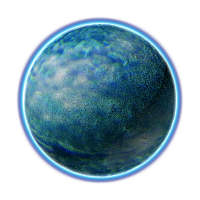
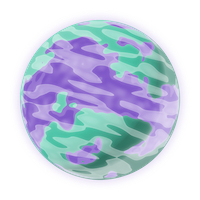
nicer planets

diff --git a/src/backdrop.rs b/src/backdrop.rs
@@ -89,15 +89,18 @@ fn setup_initial_backdrop(
 
     let planet = Obstacle::planet();
 
-    let next_planet_type = rand::thread_rng().gen_range(0..100);
-    let img_handle = if next_planet_type < 45 {
-        my_assets.planet01.clone()
-    } else if next_planet_type < 70 {
-        my_assets.planet02.clone()
-    } else if next_planet_type < 95 {
-        my_assets.planet03.clone()
-    } else {
-        my_assets.planet04.clone()
+    let next_planet_type = rand::thread_rng().gen_range(0..10);
+    let img_handle = match next_planet_type {
+        0 => my_assets.planet00.clone(),
+        1 => my_assets.planet01.clone(),
+        2 => my_assets.planet02.clone(),
+        3 => my_assets.planet03.clone(),
+        4 => my_assets.planet04.clone(),
+        5 => my_assets.planet05.clone(),
+        6 => my_assets.planet06.clone(),
+        7 => my_assets.planet07.clone(),
+        8 => my_assets.planet08.clone(),
+        _ => my_assets.planet09.clone(),
     };
 
     let img_size = assets.get(&img_handle).unwrap().size();
@@ -206,15 +209,18 @@ fn spawn_planets(
 
         let planet = Obstacle::planet();
 
-        let next_planet_type = rand::thread_rng().gen_range(0..100);
-        let img_handle = if next_planet_type < 45 {
-            my_assets.planet01.clone()
-        } else if next_planet_type < 70 {
-            my_assets.planet02.clone()
-        } else if next_planet_type < 95 {
-            my_assets.planet03.clone()
-        } else {
-            my_assets.planet04.clone()
+        let next_planet_type = rand::thread_rng().gen_range(0..10);
+        let img_handle = match next_planet_type {
+            0 => my_assets.planet00.clone(),
+            1 => my_assets.planet01.clone(),
+            2 => my_assets.planet02.clone(),
+            3 => my_assets.planet03.clone(),
+            4 => my_assets.planet04.clone(),
+            5 => my_assets.planet05.clone(),
+            6 => my_assets.planet06.clone(),
+            7 => my_assets.planet07.clone(),
+            8 => my_assets.planet08.clone(),
+            _ => my_assets.planet09.clone(),
         };
 
         let img_size = assets.get(&img_handle).unwrap().size();

diff --git a/src/main.rs b/src/main.rs
@@ -2,7 +2,6 @@
 
 use bevy::{
     prelude::*,
-    render::render_resource::FilterMode,
     window::{PresentMode, PrimaryWindow},
 };
 use bevy_asset_loader::prelude::{AssetCollection, LoadingState, LoadingStateAppExt};
@@ -64,7 +63,6 @@ fn main() {
                     }),
                     ..default()
                 })
-                .set(ImagePlugin::default_nearest()),
         )
         .add_state::<AppState>()
         .add_loading_state(LoadingState::new(AppState::Loading).continue_to_state(AppState::InGame))
@@ -124,6 +122,8 @@ pub struct MyAssets {
     trespasser: Handle<Image>,
     #[asset(path = "backdrop/star.png")]
     star: Handle<Image>,
+    #[asset(path = "backdrop/planet00.png")]
+    planet00: Handle<Image>,
     #[asset(path = "backdrop/planet01.png")]
     planet01: Handle<Image>,
     #[asset(path = "backdrop/planet02.png")]
@@ -132,6 +132,16 @@ pub struct MyAssets {
     planet03: Handle<Image>,
     #[asset(path = "backdrop/planet04.png")]
     planet04: Handle<Image>,
+    #[asset(path = "backdrop/planet05.png")]
+    planet05: Handle<Image>,
+    #[asset(path = "backdrop/planet06.png")]
+    planet06: Handle<Image>,
+    #[asset(path = "backdrop/planet07.png")]
+    planet07: Handle<Image>,
+    #[asset(path = "backdrop/planet08.png")]
+    planet08: Handle<Image>,
+    #[asset(path = "backdrop/planet09.png")]
+    planet09: Handle<Image>,
     #[asset(texture_atlas(
         tile_size_x = 134.,
         tile_size_y = 134.,
